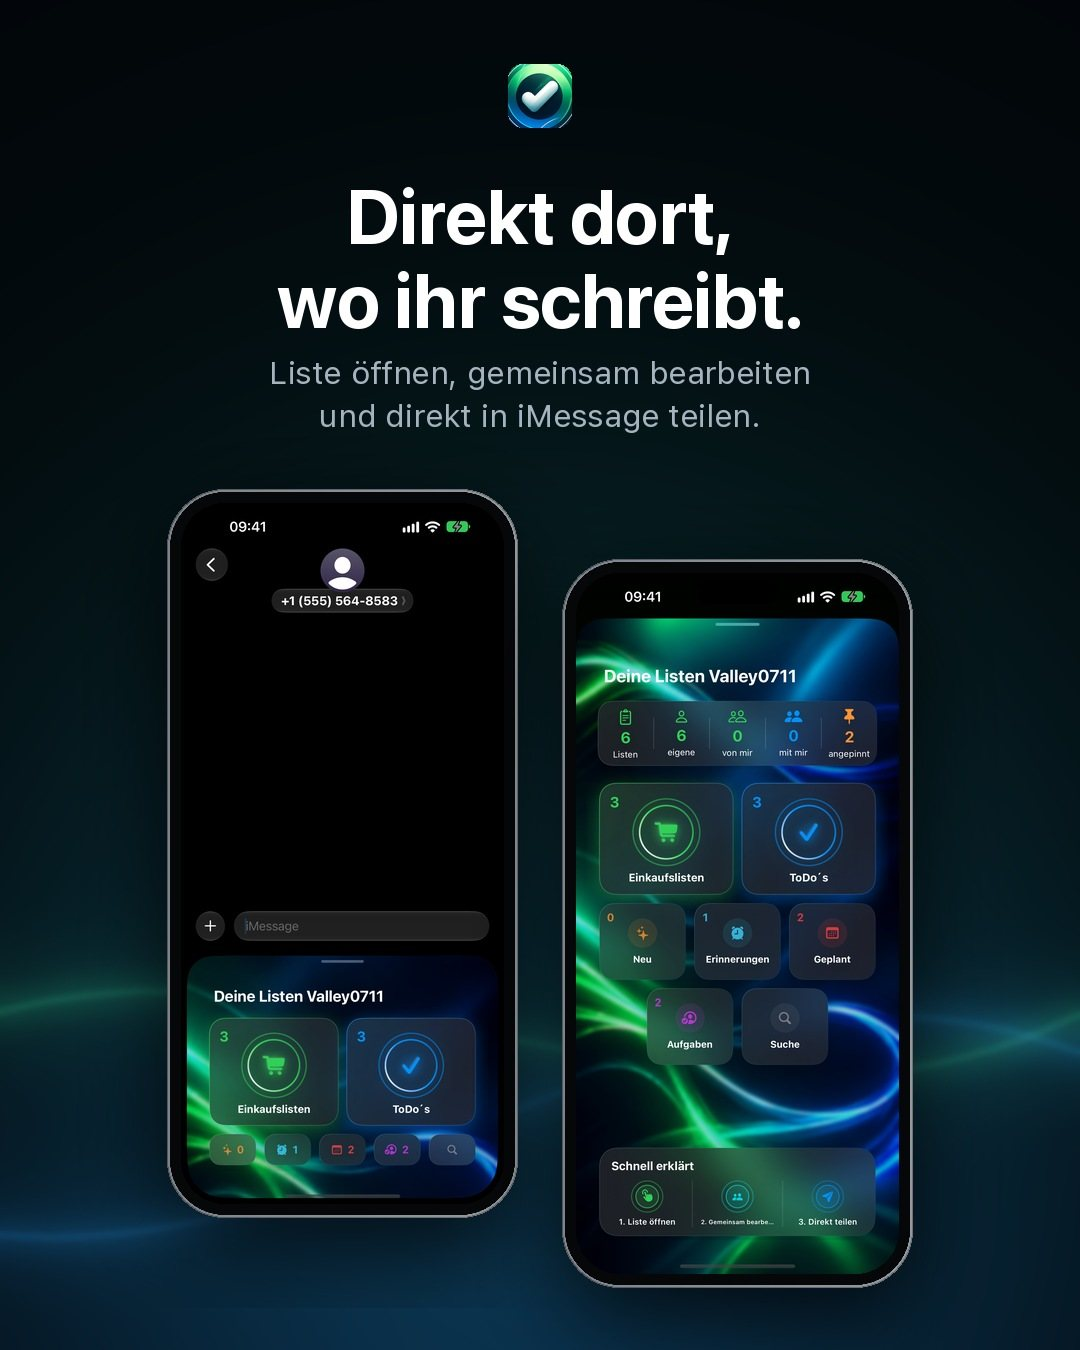
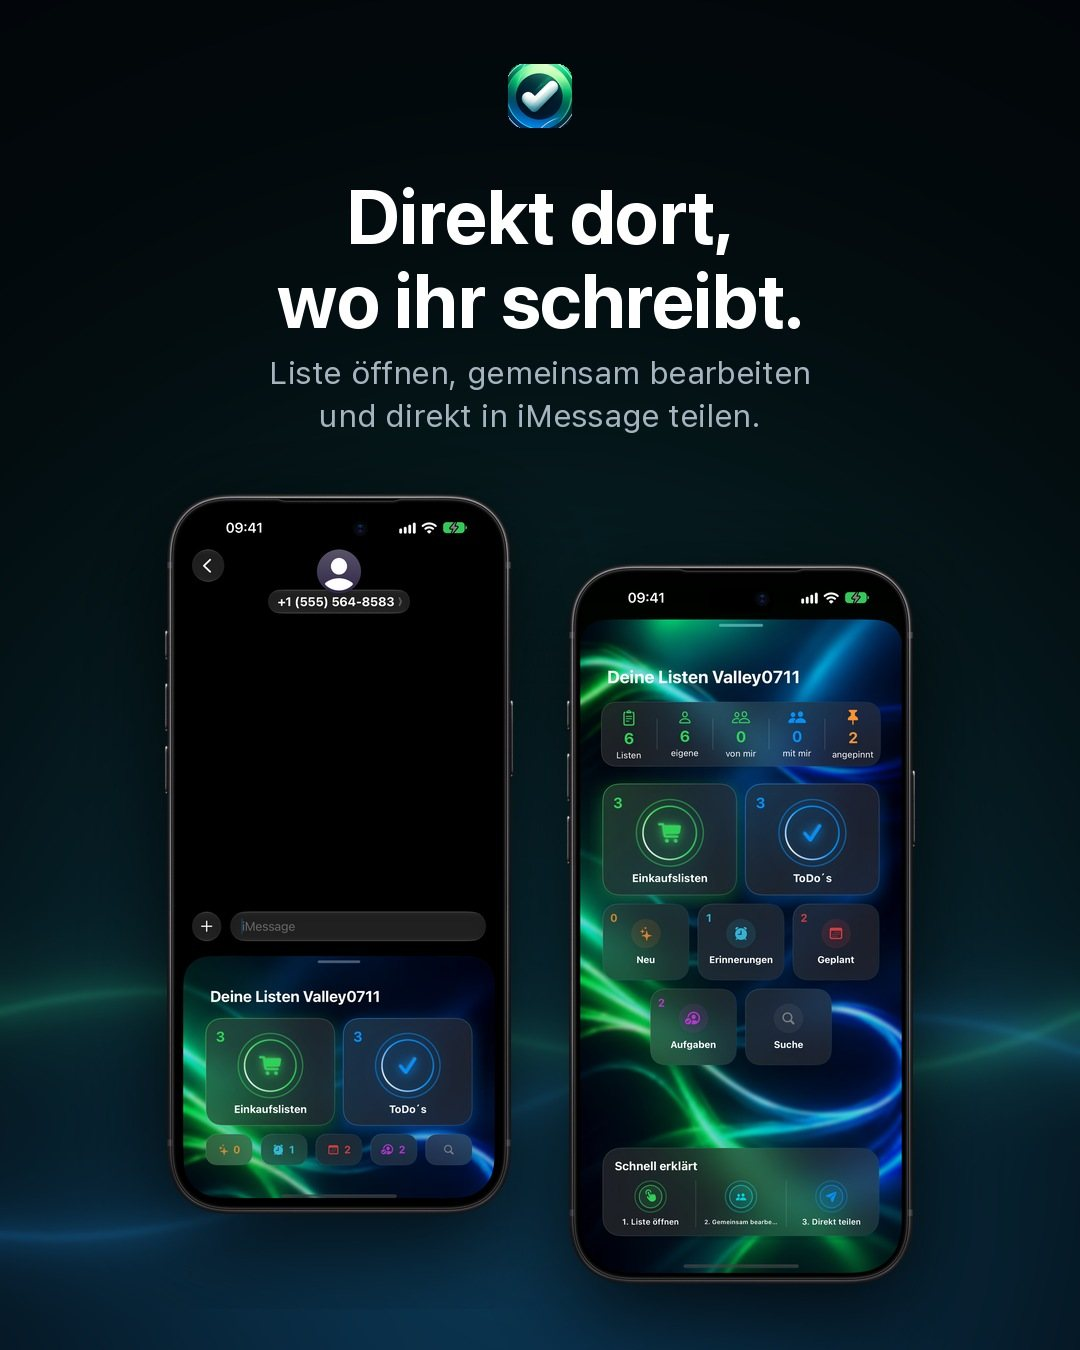
ClearList-Seite: echte Apple-Geraeterahmen (Product Bezels) fuer Titelbild und Produktbilder
Claude-Session: https://claude.ai/code/session_01AtYGo9kMH9DZpHi3e3ceu2

diff --git a/clearlist/index.html b/clearlist/index.html
@@ -1,7 +1,7 @@
 <!doctype html>
 <html lang="de"><head><meta charset="utf-8"><meta name="viewport" content="width=device-width,initial-scale=1">
 <meta name="description" content="ClearList macht gemeinsame Einkaufslisten und ToDos einfach – privat geteilt, über iCloud synchronisiert und direkt in iMessage verfügbar.">
-<meta name="robots" content="index,follow"><meta name="theme-color" content="#06110f"><title>ClearList – Gemeinsame Listen, einfach erledigt</title><link rel="stylesheet" href="style.css?v=20261002f"><link rel="canonical" href="https://valley0711.de/clearlist/">
+<meta name="robots" content="index,follow"><meta name="theme-color" content="#06110f"><title>ClearList – Gemeinsame Listen, einfach erledigt</title><link rel="stylesheet" href="style.css?v=20261002g"><link rel="canonical" href="https://valley0711.de/clearlist/">
 <link rel="icon" href="/favicon.ico" sizes="any">
 <link rel="icon" type="image/png" sizes="32x32" href="/clearlist/clearlist-icon-32.png">
 <link rel="apple-touch-icon" href="/clearlist/clearlist-icon-180.png">
@@ -19,7 +19,7 @@
 </head>
 <body><div class="wrap"><div class="valley-bar"><a href="https://valley0711.de">← VALLEY 0711</a><a href="https://valley0711.de/apps/">Alle Apps</a></div>
 <nav class="nav"><a class="brand" href="index.html"><img src="clearlist-app-icon.png" alt="ClearList App-Icon">ClearList</a><div class="links"><a href="#funktionen">Funktionen</a><a href="#einblicke">Einblicke</a><a href="#geraete">Geräte</a><a href="support.html">Support</a></div></nav>
-<main><section class="hero"><div><p class="eyebrow">GEMEINSAM EINFACH ERLEDIGEN</p><h1>Alles im Blick.<br><span>Mit ClearList.</span></h1><p class="lead">Erstelle Einkaufslisten und ToDos, teile sie mit Familie, Freunden oder deinem Partner und bearbeitet sie gemeinsam.</p><div class="buttons"><a class="button primary" href="https://apps.apple.com/de/app/clearlist/id6739069419">Im App Store laden</a><a class="button" href="#funktionen">Funktionen entdecken</a></div></div><div class="visual"><img class="hero-devices" src="clearlist-hero-devices.webp" alt="ClearList auf iPhone und Apple Watch" width="947" height="1466"><div class="status"><b>●</b> Bereit für gemeinsame Listen</div></div></section>
+<main><section class="hero"><div><p class="eyebrow">GEMEINSAM EINFACH ERLEDIGEN</p><h1>Alles im Blick.<br><span>Mit ClearList.</span></h1><p class="lead">Erstelle Einkaufslisten und ToDos, teile sie mit Familie, Freunden oder deinem Partner und bearbeitet sie gemeinsam.</p><div class="buttons"><a class="button primary" href="https://apps.apple.com/de/app/clearlist/id6739069419">Im App Store laden</a><a class="button" href="#funktionen">Funktionen entdecken</a></div></div><div class="visual"><img class="hero-devices" src="clearlist-hero-devices.webp" alt="ClearList auf iPhone und Apple Watch" width="882" height="1344"><div class="status"><b>●</b> Bereit für gemeinsame Listen</div></div></section>
 <section id="funktionen" class="section"><p class="eyebrow">EINFACH UND GEMEINSAM</p><h2>Eine Liste. Alle auf demselben Stand.</h2><p class="sub">Ob Wocheneinkauf, Urlaubsplanung oder gemeinsame Aufgaben – Einträge lassen sich hinzufügen, abhaken oder löschen und bleiben über iCloud aktuell.</p><div class="grid"><article class="card"><small>01</small><h3>Einkaufslisten &amp; ToDos</h3><p>Erstelle übersichtliche Listen für Einkäufe, Aufgaben und gemeinsame Pläne.</p></article><article class="card"><small>02</small><h3>Privat teilen</h3><p>Nur ausdrücklich eingeladene Personen erhalten Zugriff – ohne öffentliche Listenlinks.</p></article><article class="card"><small>03</small><h3>Über iCloud synchron</h3><p>Gemeinsame Änderungen werden mit CloudKit auf allen beteiligten Geräten aktuell gehalten.</p></article><article class="card"><small>04</small><h3>Direkt in iMessage</h3><p>Öffne und verwende ClearList direkt in deinen Unterhaltungen.</p></article></div></section>
 <section id="einblicke" class="section"><p class="eyebrow">SO SIEHT CLEARLIST AUS</p><h2>Übersichtlich. Reduziert. Direkt.</h2><p class="sub">ClearList konzentriert sich auf das Wesentliche: schnell eine Liste erstellen, gemeinsam bearbeiten und erledigen.</p><div class="gallery promo"><figure><img src="clearlist-promo-1.jpg" alt="Startseite von ClearList" loading="lazy"><figcaption><b>Alles auf einen Blick.</b><span>Listen anpinnen, terminieren und mit Priorität, Tags und Erinnerung versehen.</span></figcaption></figure><figure><img src="clearlist-promo-2.jpg" alt="Einkaufsliste Grillen mit Freunden" loading="lazy"><figcaption><b>Für den nächsten Einkauf.</b><span>Abhaken, priorisieren und Einträge an Personen zuweisen.</span></figcaption></figure><figure><img src="clearlist-promo-3.jpg" alt="ToDo-Liste Garage aufräumen" loading="lazy"><figcaption><b>Aufgaben gemeinsam erledigen.</b><span>Einträge terminieren, erinnern lassen und gezielt zuweisen.</span></figcaption></figure><figure><img src="clearlist-promo-4.jpg" alt="Suche nach Personen in ClearList" loading="lazy"><figcaption><b>Schnell gefunden.</b><span>Suche nach Listen, Einträgen, Tags und zugewiesenen Personen.</span></figcaption></figure></div></section>
 <section id="geraete" class="section devices"><p class="eyebrow">ÜBERALL DABEI</p><h2>iPhone, iPad, Apple Watch und CarPlay.</h2><p class="sub">Deine Listen sind auf allen Geräten auf demselben Stand – groß auf dem iPad, schnell am Handgelenk und übersichtlich im Auto.</p><div class="device-row promo"><figure><img src="clearlist-promo-6.jpg" alt="ClearList auf iPad, iPhone und Apple Watch" loading="lazy"><figcaption><b>iPhone, iPad und Apple Watch.</b><span>Die volle Übersicht auf dem iPad, schnell abhaken am Handgelenk.</span></figcaption></figure><figure><img src="clearlist-promo-7.jpg" alt="ClearList in CarPlay" loading="lazy"><figcaption><b>CarPlay.</b><span>Einkaufslisten und ToDos übersichtlich für die Fahrt aufbereitet.</span></figcaption></figure></div><div class="device-row"><figure><img src="clearlist-ipad.jpg" alt="ClearList auf dem iPad" loading="lazy"><figcaption><b>iPad.</b><span>Im Hoch- und Querformat.</span></figcaption></figure><figure><img src="clearlist-ipad-imessage.jpg" alt="ClearList in iMessage auf dem iPad" loading="lazy"><figcaption><b>iMessage auf dem iPad.</b><span>Listen direkt in der Unterhaltung öffnen und bearbeiten.</span></figcaption></figure></div></section><section class="section imessage"><div><p class="eyebrow">CLEARLIST IN NACHRICHTEN</p><h2>Listen direkt in iMessage.</h2><p class="sub">Mit der integrierten iMessage-Erweiterung kannst du Einkaufslisten und ToDos anzeigen, gemeinsam bearbeiten und direkt in deinen Unterhaltungen verwenden.</p></div><div class="promo-single"><img src="clearlist-promo-5.jpg" alt="ClearList in iMessage, kompakt und erweitert" loading="lazy"></div></section>
